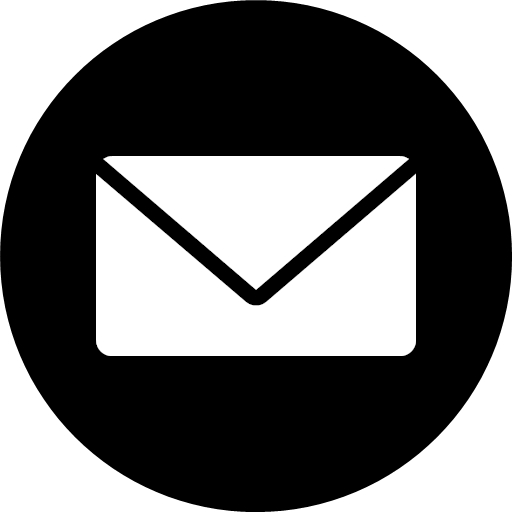
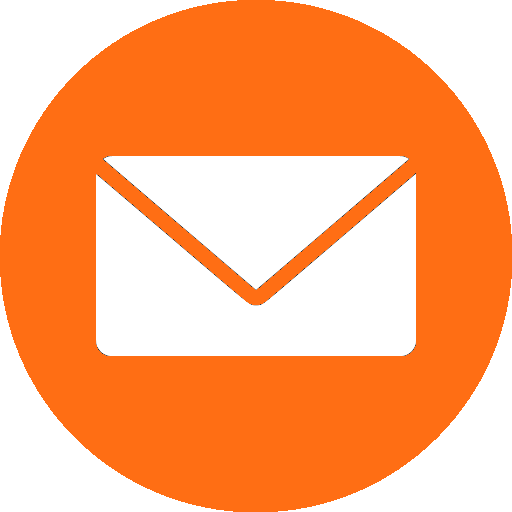
lbc branding :large_orange_diamond:

diff --git a/webpack.config.js b/webpack.config.js
@@ -22,6 +22,30 @@ module.exports = {
         test: /\.css$/i,
         use: ['style-loader', 'css-loader'],
       },
+      {
+        test: /\.less$/,
+        use: [
+          {
+            loader: 'style-loader',
+          },
+          {
+            loader: 'css-loader', // translates CSS into CommonJS
+          },
+          {
+            loader: 'less-loader', // compiles Less to CSS
+            options: {
+              lessOptions: {
+                modifyVars: {
+                  'primary-color': '#ff6e14',
+                  'link-color': '#ff6e14',
+                  'border-radius-base': '2px',
+                },
+                javascriptEnabled: true,
+              },
+            },
+          },
+        ],
+      },
     ],
   },
   plugins: [

diff --git a/src/app/index.js b/src/app/index.js
@@ -6,10 +6,10 @@ import config from '../config';
 import firebase from 'firebase';
 import Button from 'antd/lib/button';
 import Switch from 'antd/lib/switch';
-
 import { LoadingOutlined } from '@ant-design/icons';
 import 'antd/es/switch/style/css.js';
 import ReadMessageModal from '../components/readMessageModal';
+import './App.less';
 
 function App() {
   // array of messages, copied from the DB

diff --git a/src/components/messagesTable.js b/src/components/messagesTable.js
@@ -59,7 +59,7 @@ function MessagesTable({
       width: 80,
       render: (_, message) => (
         <DeleteOutlined
-          style={{ color: '#eb2f96', paddingLeft: '17px' }}
+          style={{ color: '#ff6e14', paddingLeft: '17px' }}
           onClick={() => setMessageKeyToDelete(message.key)}
         />
       ),

diff --git a/src/app/App.less b/src/app/App.less
@@ -1,0 +1,1 @@
+@import '~antd/dist/antd.less';
